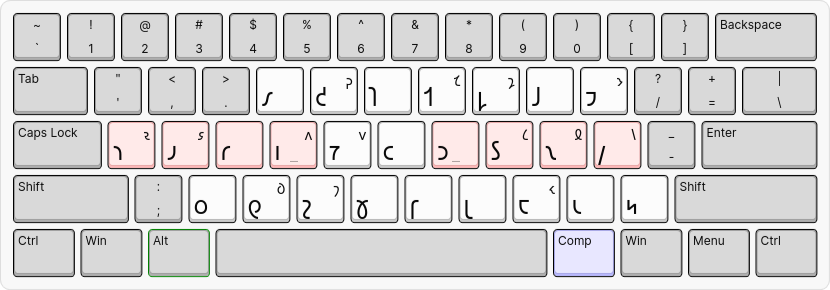
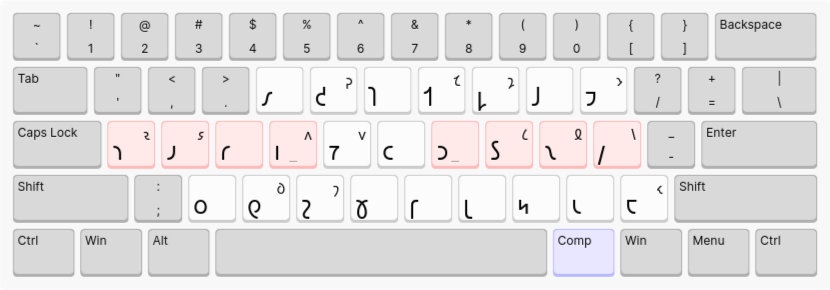
swap dvorak punctuation block

Changed region(s): [[0.0, 0.0, 1.0, 0.9621]]

diff --git a/README.md b/README.md
@@ -12,6 +12,8 @@
 
 ![JAFL Dvorak 𐑤𐑱𐑬𐑑](./img/jafl-dvorak.png)
 
+𐑕𐑦𐑥𐑚𐑩𐑤𐑟 𐑸 𐑕𐑢𐑪𐑐𐑑 𐑕𐑴 𐑞𐑱 𐑮𐑦𐑥𐑱𐑯 𐑪𐑯 𐑞 𐑕𐑱𐑥 𐑓𐑦𐑙𐑜𐑼, 𐑪𐑯 𐑞 𐑪𐑐𐑩𐑟𐑦𐑑 𐑣𐑨𐑯𐑛.
+
 𐑿𐑟 𐑝𐑺𐑾𐑯𐑑 `dvorak`. 𐑞𐑺 𐑦𐑟 𐑷𐑤𐑕𐑴 𐑩 `dvqwerty` 𐑝𐑺𐑾𐑯𐑑 𐑓 𐑿𐑕 𐑢 𐑣𐑸𐑛𐑢𐑺 Dvorak 𐑒𐑰𐑚𐑹𐑛𐑟.
 
 ### 𐑒𐑩𐑥𐑐𐑴𐑟 𐑕𐑰𐑒𐑢𐑩𐑯𐑕𐑩𐑟
@@ -49,6 +51,8 @@ This is an XKB port of [@Shavian-info](https://github.com/Shavian-info)'s [exper
 ### Dvorak-style punctuation
 
 ![JAFL Dvorak Layout](./img/jafl-dvorak.png)
+
+Symbols are swapped so they remain on the same finger, on the opposite hand.
 
 Use variant `dvorak`. There is also a `dvqwerty` variant for use with hardware Dvorak keyboards.
 
